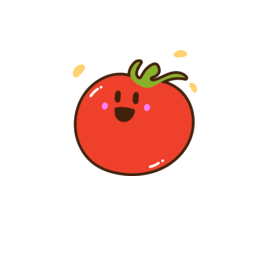
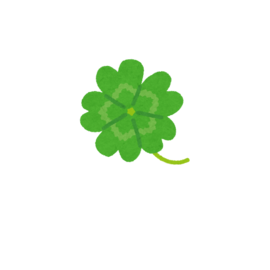
renew files

Changed region(s): [[0.2667, 0.2074, 0.7407, 0.6519], [0.6222, 0.1778, 0.7111, 0.237], [0.2667, 0.237, 0.3259, 0.2963]]

diff --git a/index.html b/index.html
@@ -14,14 +14,14 @@
   <meta name="viewport" content="width=device-width, initial-scale=1.0" />
 
   <!-- APPLE PWA -->
-  <meta name="theme-color" content="#1867c0">
-  <meta name="apple-mobile-web-app-title" content="番茄鐘">
+  <meta name="theme-color" content="#81C784">
+  <meta name="apple-mobile-web-app-title" content="一葉知鐘">
   <meta name="apple-mobile-web-app-capable" content="yes">
-  <meta name="apple-mobile-web-app-status-bar-style" content="#1867c0">
+  <meta name="apple-mobile-web-app-status-bar-style" content="#81C784">
   <link rel="apple-touch-icon" sizes="180x180" href="/apple-touch-icon.png">
-  <link rel="mask-icon" href="/safari-pinned-tab.svg" color="#1867c0">
+  <link rel="mask-icon" href="/safari-pinned-tab.svg" color="#81C784">
 
-  <!-- https://appsco.pe/developer/splash-screens -->
+  <!-- 產生各種尺寸的預覽圖 https://appsco.pe/developer/splash-screens -->
   <link href="splashscreens/iphone5_splash.png"
     media="(device-width: 320px) and (device-height: 568px) and (-webkit-device-pixel-ratio: 2)"
     rel="apple-touch-startup-image" />
@@ -54,27 +54,31 @@
     rel="apple-touch-startup-image" />
 
   <!-- MS PWA -->
-  <meta name="msapplication-TileColor" content="#1867c0">
+  <meta name="msapplication-TileColor" content="#c8e6c9">
   <meta name="msapplication-square150x150logo" content="/mstile-150x150.png">
 
+  <!-- Meta Tags Generated with https://metatags.io -->
   <!-- Primary Meta Tags -->
-  <title>番茄鐘</title>
-  <meta name="title" content="番茄鐘" />
-  <meta name="description" content="Vuetify 番茄鐘" />
+  <title>pomodoro - leaf timer</title>
+  <meta name="title" content="pomodoro - leaf timer" />
+  <meta name="description" content=" leaf timer with vuetify pomodoro by WenChi" />
 
   <!-- Open Graph / Facebook -->
   <meta property="og:type" content="website" />
-  <meta property="og:url" content="https://rogeraabbccdd.github.io/pomodoro" />
-  <meta property="og:title" content="番茄鐘" />
-  <meta property="og:description" content="Vuetify 番茄鐘" />
-  <meta property="og:image" content="https://rogeraabbccdd.github.io/pomodoro/splashscreens/ipad_splash.png" />
+  <meta property="og:url" content="http://rechilab.com/pomodoro_mix/" />
+  <meta property="og:title" content="pomodoro - leaf timer" />
+  <meta property="og:description" content=" leaf timer with vuetify pomodoro by WenChi" />
+  <meta property="og:image" content="http://rechilab.com/pomodoro_mix/leaf_timer.png" />
+  <!-- http://rechilab.com/pomodoro_mix/  會指到 public 資料夾 -->
 
   <!-- Twitter -->
   <meta property="twitter:card" content="summary_large_image" />
-  <meta property="twitter:url" content="https://rogeraabbccdd.github.io/pomodoro" />
-  <meta property="twitter:title" content="番茄鐘" />
-  <meta property="twitter:description" content="Vuetify 番茄鐘" />
-  <meta property="twitter:image" content="https://rogeraabbccdd.github.io/pomodoro/splashscreens/ipad_splash.png" />
+  <meta property="twitter:url" content="http://rechilab.com/pomodoro_mix/" />
+  <meta property="twitter:title" content="pomodoro - leaf timer" />
+  <meta property="twitter:description" content=" leaf timer with vuetify pomodoro by WenChi" />
+  <meta property="twitter:image" content="http://rechilab.com/pomodoro_mix/leaf_timer.png" />
+
+
 </head>
 
 <body>

diff --git a/src/views/HomeView.vue b/src/views/HomeView.vue
@@ -1,22 +1,24 @@
 <template>
   <v-container class="h-100 d-flex justify-center align-center">
-    <v-row >
-      <v-col cols="12">
-        <h1>{{ currentText }}</h1>
-        <h1>{{ currentTime }}</h1>
-        <v-btn
+    <v-row class="d-flex justify-center align-center">
+      <v-col cols="12" class="d-flex flex-column justify-center align-center ">
+        <h1 class="text-h3 mt-6 mb-6">{{ currentText }}</h1>
+        <h1 class="text-h2 mt-6 mb-6">{{ currentTime }}</h1>
+        <div class="mt-6 mb-6">
+          <v-btn class="text-h4"
           variant="text" icon="mdi-play"
           :disabled="status === STATUS.COUNTING || (currentItem.length === 0 && items.length === 0)"
           @click="startTimer"
         ></v-btn>
-        <v-btn
+        <v-btn class="text-h4"
           variant="text" icon="mdi-pause" :disabled="status !== STATUS.COUNTING"
           @click="pauseTimer"
         ></v-btn>
-        <v-btn
+        <v-btn class="text-h4"
           variant="text" icon="mdi-skip-next" :disabled="currentItem.length === 0"
           @click="finishTimer"
         ></v-btn>
+        </div>
       </v-col>
     </v-row>
 

diff --git a/src/App.vue b/src/App.vue
@@ -1,8 +1,20 @@
 <template>
   <v-app>
-    <v-app-bar color="#DCEDC8">
+    <!--navbar 的基底顏色 color="rgba(220, 237, 200, 0.5)" 用 v-slot 插入圖片 -->
+    <v-app-bar
+        image="https://images.unsplash.com/photo-1631561208817-a64a544b55e3?q=80&w=1336&auto=format&fit=crop&ixlib=rb-4.0.3&ixid=M3wxMjA3fDB8MHxwaG90by1wYWdlfHx8fGVufDB8fHx8fA%3D%3D"
+      >
+        <template v-slot:image>
+          <v-img
+            gradient="to top right, rgba(0, 213, 112, 0.7), rgba(0, 191, 177, 0.9)"
+          ></v-img>
+        </template>
+
       <v-container class="d-flex align-center">
-        <v-app-bar-title class="font-weight-bold">POMODORO</v-app-bar-title>
+        <v-app-bar-title class="font-weight-bold">LEAF TIMER
+          <v-icon icon="mdi-clover">
+          </v-icon>
+        </v-app-bar-title>
         <v-btn prepend-icon="mdi-home" to="/">首頁</v-btn>
         <v-btn prepend-icon="mdi-list-status" to="/list">事項</v-btn>
         <v-btn prepend-icon="mdi-cog" to="/settings">設定</v-btn>

diff --git a/vite.config.js b/vite.config.js
@@ -51,12 +51,12 @@ export default defineConfig({
       },
       manifest: {
         // 名稱
-        name: '番茄鐘',
-        short_name: '番茄鐘',
+        name: '一葉知鐘',
+        short_name: '一葉知鐘',
         // 工具列顏色
-        theme_color: '#1867C0',
+        theme_color: '#81C784',
         // 啟動畫面的背景色
-        background_color: '#1867C0',
+        background_color: '#C8E6C9',
         // 啟動網址
         start_url: './',
         // PWA 顯示範圍，超出範圍會啟動瀏覽器
@@ -70,8 +70,8 @@ export default defineConfig({
             type: 'image/png'
           },
           {
-            src: './android-chrome-512x512.png',
-            sizes: '512x512',
+            src: './android-chrome-384x384.png',
+            sizes: '384x384',
             type: 'image/png'
           }
         ]

diff --git a/src/router/index.js b/src/router/index.js
@@ -6,28 +6,28 @@ const routes = [
     path: '/',
     component: () => import('@/views/HomeView.vue'),
     meta: {
-      title: '番茄鐘 | 首頁'
+      title: '一葉知鐘 | 首頁'
     }
   },
   {
     path: '/list',
     component: () => import('@/views/ListView.vue'),
     meta: {
-      title: '番茄鐘 | 事項'
+      title: '一葉知鐘 | 事項'
     }
   },
   {
     path: '/settings',
     component: () => import('@/views/SettingsView.vue'),
     meta: {
-      title: '番茄鐘 | 設定'
+      title: '一葉知鐘 | 設定'
     }
   },
   {
     path: '/calendar',
     component: () => import('@/views/CalendarView.vue'),
     meta: {
-      title: '番茄鐘 | 日曆'
+      title: '一葉知鐘 | 日曆'
     }
   }
 ]

diff --git a/src/views/CalendarView.vue b/src/views/CalendarView.vue
@@ -1,7 +1,7 @@
 <template>
   <v-container class="h-100 d-flex justify-center align-center">
     <v-row justify="space-around">
-      <v-date-picker show-adjacent-months width="60%" elevation="4" color="#7CB342"></v-date-picker>
+      <v-date-picker show-adjacent-months width="60%" elevation="4" color="rgba(0, 191, 177, 1)"></v-date-picker>
     </v-row>
   </v-container>
 </template>

diff --git a/src/plugins/vuetify.js b/src/plugins/vuetify.js
@@ -17,8 +17,8 @@ export default createVuetify({
     defaultTheme: 'light',
     themes: {
       light: {
-        primary: '#E57373',
-        secondary: '#424242',
+        primary: '#81C784',
+        secondary: 'rgba(220, 237, 200, 1)',
         error: '#FF5252',
         info: '#2196F3',
         success: '#CCFF90',
